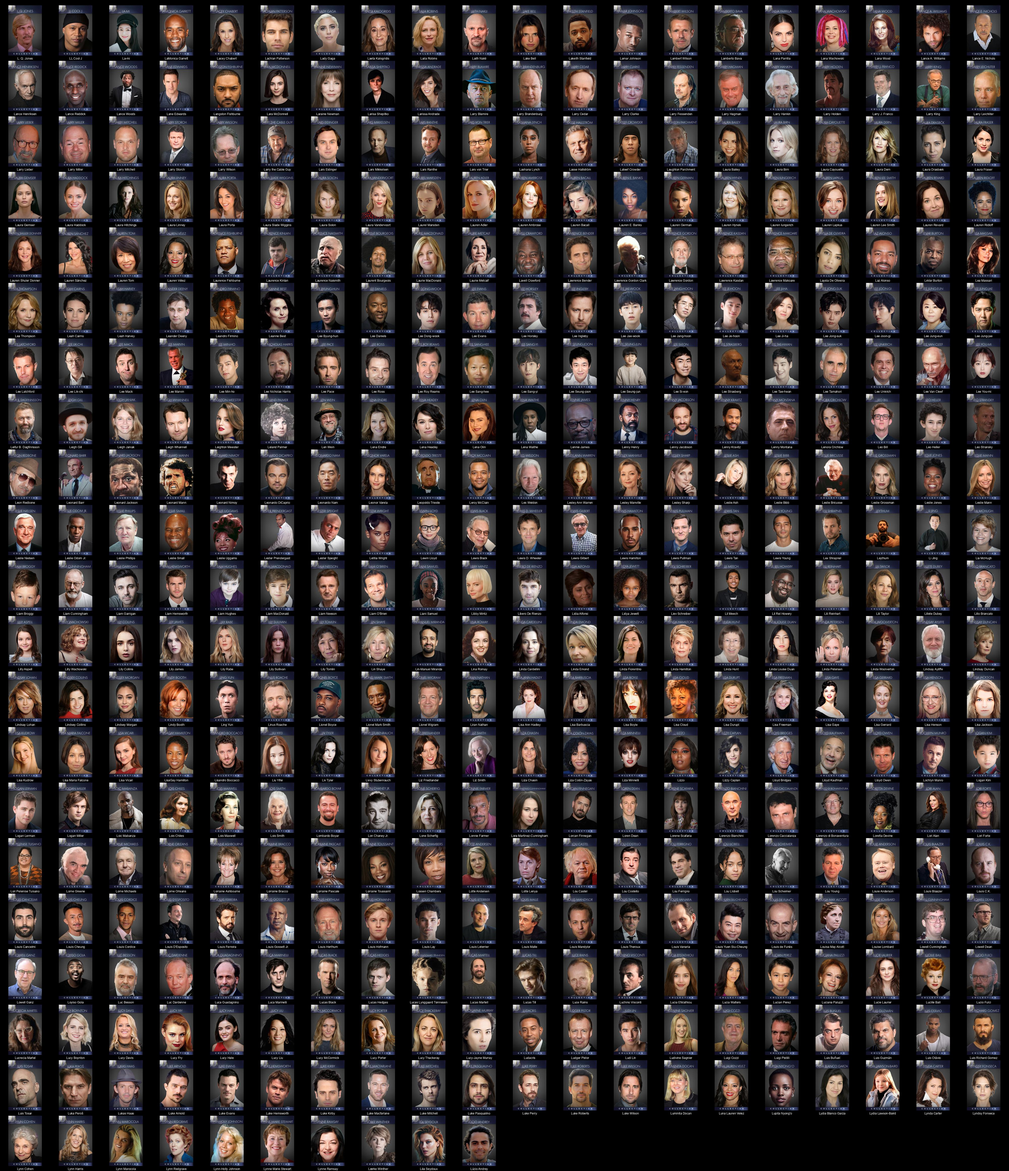
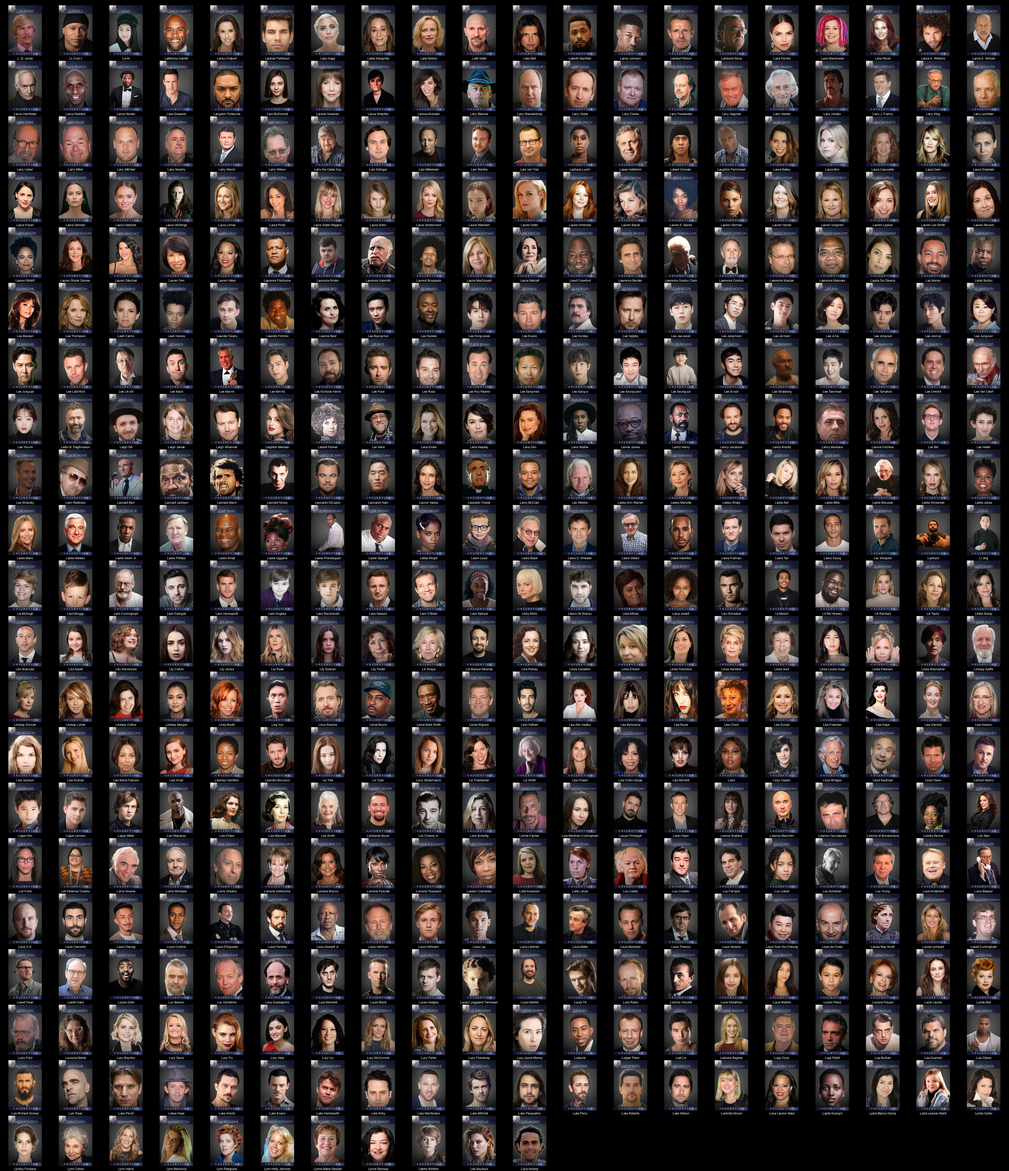
Readme Update

Changed region(s): [[0.0, 0.0938, 1.0, 1.0]]

diff --git a/README.md b/README.md
@@ -1,4 +1,4 @@
-# Kometa People Images - DIIIVOY Color (diiivoycolor) (9529 Images)
+# Kometa People Images - DIIIVOY Color (diiivoycolor) (9536 Images)
 
 <details><summary><a href="'">' (1 Images)</a></summary>
 
@@ -1264,7 +1264,7 @@
 * [Béla Tarr](https://raw.githubusercontent.com/Kometa-Team/People-Images-diiivoycolor/master/B/Images/B%C3%A9la%20Tarr.jpg)
 * [Bérénice Bejo](https://raw.githubusercontent.com/Kometa-Team/People-Images-diiivoycolor/master/B/Images/B%C3%A9r%C3%A9nice%20Bejo.jpg)
 </details>
-<details><summary><a href="C">C (615 Images)</a></summary>
+<details><summary><a href="C">C (617 Images)</a></summary>
 
 * [C. Robert Cargill](https://raw.githubusercontent.com/Kometa-Team/People-Images-diiivoycolor/master/C/Images/C.%20Robert%20Cargill.jpg)
 * [C. S. Forester](https://raw.githubusercontent.com/Kometa-Team/People-Images-diiivoycolor/master/C/Images/C.%20S.%20Forester.jpg)
@@ -1806,8 +1806,10 @@
 * [Colton Haynes](https://raw.githubusercontent.com/Kometa-Team/People-Images-diiivoycolor/master/C/Images/Colton%20Haynes.jpg)
 * [Common](https://raw.githubusercontent.com/Kometa-Team/People-Images-diiivoycolor/master/C/Images/Common.jpg)
 * [Con O'Neill](https://raw.githubusercontent.com/Kometa-Team/People-Images-diiivoycolor/master/C/Images/Con%20O%27Neill.jpg)
+* [Conan O'Brien](https://raw.githubusercontent.com/Kometa-Team/People-Images-diiivoycolor/master/C/Images/Conan%20O%27Brien.jpg)
 * [Conlan Casal](https://raw.githubusercontent.com/Kometa-Team/People-Images-diiivoycolor/master/C/Images/Conlan%20Casal.jpg)
 * [Conleth Hill](https://raw.githubusercontent.com/Kometa-Team/People-Images-diiivoycolor/master/C/Images/Conleth%20Hill.jpg)
+* [Conner O'Malley](https://raw.githubusercontent.com/Kometa-Team/People-Images-diiivoycolor/master/C/Images/Conner%20O%27Malley.jpg)
 * [Connie Booth](https://raw.githubusercontent.com/Kometa-Team/People-Images-diiivoycolor/master/C/Images/Connie%20Booth.jpg)
 * [Connie Chiume](https://raw.githubusercontent.com/Kometa-Team/People-Images-diiivoycolor/master/C/Images/Connie%20Chiume.jpg)
 * [Connie Mason](https://raw.githubusercontent.com/Kometa-Team/People-Images-diiivoycolor/master/C/Images/Connie%20Mason.jpg)
@@ -2501,7 +2503,7 @@
 * [Débora Nascimento](https://raw.githubusercontent.com/Kometa-Team/People-Images-diiivoycolor/master/D/Images/D%C3%A9bora%20Nascimento.jpg)
 * [Díana Bermudez](https://raw.githubusercontent.com/Kometa-Team/People-Images-diiivoycolor/master/D/Images/D%C3%ADana%20Bermudez.jpg)
 </details>
-<details><summary><a href="E">E (336 Images)</a></summary>
+<details><summary><a href="E">E (337 Images)</a></summary>
 
 * [E.G. Marshall](https://raw.githubusercontent.com/Kometa-Team/People-Images-diiivoycolor/master/E/Images/E.G.%20Marshall.jpg)
 * [E.J. Bonilla](https://raw.githubusercontent.com/Kometa-Team/People-Images-diiivoycolor/master/E/Images/E.J.%20Bonilla.jpg)
@@ -2752,6 +2754,7 @@
 * [Eric Stoltz](https://raw.githubusercontent.com/Kometa-Team/People-Images-diiivoycolor/master/E/Images/Eric%20Stoltz.jpg)
 * [Eric Stonestreet](https://raw.githubusercontent.com/Kometa-Team/People-Images-diiivoycolor/master/E/Images/Eric%20Stonestreet.jpg)
 * [Eric Stuart](https://raw.githubusercontent.com/Kometa-Team/People-Images-diiivoycolor/master/E/Images/Eric%20Stuart.jpg)
+* [Eric Wareheim](https://raw.githubusercontent.com/Kometa-Team/People-Images-diiivoycolor/master/E/Images/Eric%20Wareheim.jpg)
 * [Erica Beck](https://raw.githubusercontent.com/Kometa-Team/People-Images-diiivoycolor/master/E/Images/Erica%20Beck.jpg)
 * [Erica Durance](https://raw.githubusercontent.com/Kometa-Team/People-Images-diiivoycolor/master/E/Images/Erica%20Durance.jpg)
 * [Erica Lee](https://raw.githubusercontent.com/Kometa-Team/People-Images-diiivoycolor/master/E/Images/Erica%20Lee.jpg)
@@ -3689,7 +3692,7 @@
 * [Izaac Wang](https://raw.githubusercontent.com/Kometa-Team/People-Images-diiivoycolor/master/I/Images/Izaac%20Wang.jpg)
 * [Izabella Scorupco](https://raw.githubusercontent.com/Kometa-Team/People-Images-diiivoycolor/master/I/Images/Izabella%20Scorupco.jpg)
 </details>
-<details><summary><a href="J">J (1173 Images)</a></summary>
+<details><summary><a href="J">J (1176 Images)</a></summary>
 
 * [J'Dvonte](https://raw.githubusercontent.com/Kometa-Team/People-Images-diiivoycolor/master/J/Images/J%27Dvonte.jpg)
 * [J. A. Bayona](https://raw.githubusercontent.com/Kometa-Team/People-Images-diiivoycolor/master/J/Images/J.%20A.%20Bayona.jpg)
@@ -4176,6 +4179,7 @@
 * [Jerry Goldsmith](https://raw.githubusercontent.com/Kometa-Team/People-Images-diiivoycolor/master/J/Images/Jerry%20Goldsmith.jpg)
 * [Jerry Lee Lewis](https://raw.githubusercontent.com/Kometa-Team/People-Images-diiivoycolor/master/J/Images/Jerry%20Lee%20Lewis.jpg)
 * [Jerry Lewis](https://raw.githubusercontent.com/Kometa-Team/People-Images-diiivoycolor/master/J/Images/Jerry%20Lewis.jpg)
+* [Jerry Minor](https://raw.githubusercontent.com/Kometa-Team/People-Images-diiivoycolor/master/J/Images/Jerry%20Minor.jpg)
 * [Jerry Nelson](https://raw.githubusercontent.com/Kometa-Team/People-Images-diiivoycolor/master/J/Images/Jerry%20Nelson.jpg)
 * [Jerry O'Connell](https://raw.githubusercontent.com/Kometa-Team/People-Images-diiivoycolor/master/J/Images/Jerry%20O%27Connell.jpg)
 * [Jerry Seinfeld](https://raw.githubusercontent.com/Kometa-Team/People-Images-diiivoycolor/master/J/Images/Jerry%20Seinfeld.jpg)
@@ -4330,7 +4334,9 @@
 * [Jodie Comer](https://raw.githubusercontent.com/Kometa-Team/People-Images-diiivoycolor/master/J/Images/Jodie%20Comer.jpg)
 * [Jodie Foster](https://raw.githubusercontent.com/Kometa-Team/People-Images-diiivoycolor/master/J/Images/Jodie%20Foster.jpg)
 * [Jodie Sweetin](https://raw.githubusercontent.com/Kometa-Team/People-Images-diiivoycolor/master/J/Images/Jodie%20Sweetin.jpg)
+* [Jodie Turner-Smith](https://raw.githubusercontent.com/Kometa-Team/People-Images-diiivoycolor/master/J/Images/Jodie%20Turner-Smith.jpg)
 * [Jody Carlson](https://raw.githubusercontent.com/Kometa-Team/People-Images-diiivoycolor/master/J/Images/Jody%20Carlson.jpg)
+* [Jody Smith](https://raw.githubusercontent.com/Kometa-Team/People-Images-diiivoycolor/master/J/Images/Jody%20Smith.jpg)
 * [Joe Alaskey](https://raw.githubusercontent.com/Kometa-Team/People-Images-diiivoycolor/master/J/Images/Joe%20Alaskey.jpg)
 * [Joe Anoa'i](https://raw.githubusercontent.com/Kometa-Team/People-Images-diiivoycolor/master/J/Images/Joe%20Anoa%27i.jpg)
 * [Joe Berlinger](https://raw.githubusercontent.com/Kometa-Team/People-Images-diiivoycolor/master/J/Images/Joe%20Berlinger.jpg)
@@ -5336,7 +5342,7 @@
 * [Kyung Soo-jin](https://raw.githubusercontent.com/Kometa-Team/People-Images-diiivoycolor/master/K/Images/Kyung%20Soo-jin.jpg)
 * [Kō Nakahira](https://raw.githubusercontent.com/Kometa-Team/People-Images-diiivoycolor/master/K/Images/K%C5%8D%20Nakahira.jpg)
 </details>
-<details><summary><a href="L">L (410 Images)</a></summary>
+<details><summary><a href="L">L (411 Images)</a></summary>
 
 * [L. Q. Jones](https://raw.githubusercontent.com/Kometa-Team/People-Images-diiivoycolor/master/L/Images/L.%20Q.%20Jones.jpg)
 * [LL Cool J](https://raw.githubusercontent.com/Kometa-Team/People-Images-diiivoycolor/master/L/Images/LL%20Cool%20J.jpg)
@@ -5381,6 +5387,7 @@
 * [Larry Lieber](https://raw.githubusercontent.com/Kometa-Team/People-Images-diiivoycolor/master/L/Images/Larry%20Lieber.jpg)
 * [Larry Miller](https://raw.githubusercontent.com/Kometa-Team/People-Images-diiivoycolor/master/L/Images/Larry%20Miller.jpg)
 * [Larry Mitchell](https://raw.githubusercontent.com/Kometa-Team/People-Images-diiivoycolor/master/L/Images/Larry%20Mitchell.jpg)
+* [Larry Murphy](https://raw.githubusercontent.com/Kometa-Team/People-Images-diiivoycolor/master/L/Images/Larry%20Murphy.jpg)
 * [Larry Storch](https://raw.githubusercontent.com/Kometa-Team/People-Images-diiivoycolor/master/L/Images/Larry%20Storch.jpg)
 * [Larry Wilson](https://raw.githubusercontent.com/Kometa-Team/People-Images-diiivoycolor/master/L/Images/Larry%20Wilson.jpg)
 * [Larry the Cable Guy](https://raw.githubusercontent.com/Kometa-Team/People-Images-diiivoycolor/master/L/Images/Larry%20the%20Cable%20Guy.jpg)

diff --git a/J/README.md b/J/README.md
@@ -1,4 +1,4 @@
-# Kometa People Images - DIIIVOY Color (diiivoycolor) - J (1173 Images)
+# Kometa People Images - DIIIVOY Color (diiivoycolor) - J (1176 Images)
 ![Grid](grid.jpg)
 
 * [J'Dvonte](https://raw.githubusercontent.com/Kometa-Team/People-Images-diiivoycolor/master/J/Images/J%27Dvonte.jpg)
@@ -486,6 +486,7 @@
 * [Jerry Goldsmith](https://raw.githubusercontent.com/Kometa-Team/People-Images-diiivoycolor/master/J/Images/Jerry%20Goldsmith.jpg)
 * [Jerry Lee Lewis](https://raw.githubusercontent.com/Kometa-Team/People-Images-diiivoycolor/master/J/Images/Jerry%20Lee%20Lewis.jpg)
 * [Jerry Lewis](https://raw.githubusercontent.com/Kometa-Team/People-Images-diiivoycolor/master/J/Images/Jerry%20Lewis.jpg)
+* [Jerry Minor](https://raw.githubusercontent.com/Kometa-Team/People-Images-diiivoycolor/master/J/Images/Jerry%20Minor.jpg)
 * [Jerry Nelson](https://raw.githubusercontent.com/Kometa-Team/People-Images-diiivoycolor/master/J/Images/Jerry%20Nelson.jpg)
 * [Jerry O'Connell](https://raw.githubusercontent.com/Kometa-Team/People-Images-diiivoycolor/master/J/Images/Jerry%20O%27Connell.jpg)
 * [Jerry Seinfeld](https://raw.githubusercontent.com/Kometa-Team/People-Images-diiivoycolor/master/J/Images/Jerry%20Seinfeld.jpg)
@@ -640,7 +641,9 @@
 * [Jodie Comer](https://raw.githubusercontent.com/Kometa-Team/People-Images-diiivoycolor/master/J/Images/Jodie%20Comer.jpg)
 * [Jodie Foster](https://raw.githubusercontent.com/Kometa-Team/People-Images-diiivoycolor/master/J/Images/Jodie%20Foster.jpg)
 * [Jodie Sweetin](https://raw.githubusercontent.com/Kometa-Team/People-Images-diiivoycolor/master/J/Images/Jodie%20Sweetin.jpg)
+* [Jodie Turner-Smith](https://raw.githubusercontent.com/Kometa-Team/People-Images-diiivoycolor/master/J/Images/Jodie%20Turner-Smith.jpg)
 * [Jody Carlson](https://raw.githubusercontent.com/Kometa-Team/People-Images-diiivoycolor/master/J/Images/Jody%20Carlson.jpg)
+* [Jody Smith](https://raw.githubusercontent.com/Kometa-Team/People-Images-diiivoycolor/master/J/Images/Jody%20Smith.jpg)
 * [Joe Alaskey](https://raw.githubusercontent.com/Kometa-Team/People-Images-diiivoycolor/master/J/Images/Joe%20Alaskey.jpg)
 * [Joe Anoa'i](https://raw.githubusercontent.com/Kometa-Team/People-Images-diiivoycolor/master/J/Images/Joe%20Anoa%27i.jpg)
 * [Joe Berlinger](https://raw.githubusercontent.com/Kometa-Team/People-Images-diiivoycolor/master/J/Images/Joe%20Berlinger.jpg)

diff --git a/C/README.md b/C/README.md
@@ -1,4 +1,4 @@
-# Kometa People Images - DIIIVOY Color (diiivoycolor) - C (615 Images)
+# Kometa People Images - DIIIVOY Color (diiivoycolor) - C (617 Images)
 ![Grid](grid.jpg)
 
 * [C. Robert Cargill](https://raw.githubusercontent.com/Kometa-Team/People-Images-diiivoycolor/master/C/Images/C.%20Robert%20Cargill.jpg)
@@ -541,8 +541,10 @@
 * [Colton Haynes](https://raw.githubusercontent.com/Kometa-Team/People-Images-diiivoycolor/master/C/Images/Colton%20Haynes.jpg)
 * [Common](https://raw.githubusercontent.com/Kometa-Team/People-Images-diiivoycolor/master/C/Images/Common.jpg)
 * [Con O'Neill](https://raw.githubusercontent.com/Kometa-Team/People-Images-diiivoycolor/master/C/Images/Con%20O%27Neill.jpg)
+* [Conan O'Brien](https://raw.githubusercontent.com/Kometa-Team/People-Images-diiivoycolor/master/C/Images/Conan%20O%27Brien.jpg)
 * [Conlan Casal](https://raw.githubusercontent.com/Kometa-Team/People-Images-diiivoycolor/master/C/Images/Conlan%20Casal.jpg)
 * [Conleth Hill](https://raw.githubusercontent.com/Kometa-Team/People-Images-diiivoycolor/master/C/Images/Conleth%20Hill.jpg)
+* [Conner O'Malley](https://raw.githubusercontent.com/Kometa-Team/People-Images-diiivoycolor/master/C/Images/Conner%20O%27Malley.jpg)
 * [Connie Booth](https://raw.githubusercontent.com/Kometa-Team/People-Images-diiivoycolor/master/C/Images/Connie%20Booth.jpg)
 * [Connie Chiume](https://raw.githubusercontent.com/Kometa-Team/People-Images-diiivoycolor/master/C/Images/Connie%20Chiume.jpg)
 * [Connie Mason](https://raw.githubusercontent.com/Kometa-Team/People-Images-diiivoycolor/master/C/Images/Connie%20Mason.jpg)

diff --git a/L/README.md b/L/README.md
@@ -1,4 +1,4 @@
-# Kometa People Images - DIIIVOY Color (diiivoycolor) - L (410 Images)
+# Kometa People Images - DIIIVOY Color (diiivoycolor) - L (411 Images)
 ![Grid](grid.jpg)
 
 * [L. Q. Jones](https://raw.githubusercontent.com/Kometa-Team/People-Images-diiivoycolor/master/L/Images/L.%20Q.%20Jones.jpg)
@@ -44,6 +44,7 @@
 * [Larry Lieber](https://raw.githubusercontent.com/Kometa-Team/People-Images-diiivoycolor/master/L/Images/Larry%20Lieber.jpg)
 * [Larry Miller](https://raw.githubusercontent.com/Kometa-Team/People-Images-diiivoycolor/master/L/Images/Larry%20Miller.jpg)
 * [Larry Mitchell](https://raw.githubusercontent.com/Kometa-Team/People-Images-diiivoycolor/master/L/Images/Larry%20Mitchell.jpg)
+* [Larry Murphy](https://raw.githubusercontent.com/Kometa-Team/People-Images-diiivoycolor/master/L/Images/Larry%20Murphy.jpg)
 * [Larry Storch](https://raw.githubusercontent.com/Kometa-Team/People-Images-diiivoycolor/master/L/Images/Larry%20Storch.jpg)
 * [Larry Wilson](https://raw.githubusercontent.com/Kometa-Team/People-Images-diiivoycolor/master/L/Images/Larry%20Wilson.jpg)
 * [Larry the Cable Guy](https://raw.githubusercontent.com/Kometa-Team/People-Images-diiivoycolor/master/L/Images/Larry%20the%20Cable%20Guy.jpg)

diff --git a/E/README.md b/E/README.md
@@ -1,4 +1,4 @@
-# Kometa People Images - DIIIVOY Color (diiivoycolor) - E (336 Images)
+# Kometa People Images - DIIIVOY Color (diiivoycolor) - E (337 Images)
 ![Grid](grid.jpg)
 
 * [E.G. Marshall](https://raw.githubusercontent.com/Kometa-Team/People-Images-diiivoycolor/master/E/Images/E.G.%20Marshall.jpg)
@@ -250,6 +250,7 @@
 * [Eric Stoltz](https://raw.githubusercontent.com/Kometa-Team/People-Images-diiivoycolor/master/E/Images/Eric%20Stoltz.jpg)
 * [Eric Stonestreet](https://raw.githubusercontent.com/Kometa-Team/People-Images-diiivoycolor/master/E/Images/Eric%20Stonestreet.jpg)
 * [Eric Stuart](https://raw.githubusercontent.com/Kometa-Team/People-Images-diiivoycolor/master/E/Images/Eric%20Stuart.jpg)
+* [Eric Wareheim](https://raw.githubusercontent.com/Kometa-Team/People-Images-diiivoycolor/master/E/Images/Eric%20Wareheim.jpg)
 * [Erica Beck](https://raw.githubusercontent.com/Kometa-Team/People-Images-diiivoycolor/master/E/Images/Erica%20Beck.jpg)
 * [Erica Durance](https://raw.githubusercontent.com/Kometa-Team/People-Images-diiivoycolor/master/E/Images/Erica%20Durance.jpg)
 * [Erica Lee](https://raw.githubusercontent.com/Kometa-Team/People-Images-diiivoycolor/master/E/Images/Erica%20Lee.jpg)
